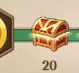
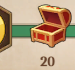
1. Consume more donation rewards 2. Fix do_school

diff --git a/slowlife/bot/game.py b/slowlife/bot/game.py
@@ -48,11 +48,12 @@ from slowlife.resources.constants import (
     KITCHEN_SERVE, KITCHEN_ORDER_JEWELS1, KITCHEN_ORDER_JEWELS2, KITCHEN_USE_INN_PAMPHLET,
 
     SCHOOL_BACK, SCHOOL_EDUCATE, SCHOOL_USE_ITEM, SCHOOL_GRADUATE, GRADUATE_OK, GRADUATE_CONGRATS_OK,
-    NOTICE_OK, SCHOOL_NAME, SCHOOL_GO, SCHOOL_OUT_OF_RESOURCES, SCHOOL_NOTICE,
+    NOTICE_OK, SCHOOL_NAME, SCHOOL_GO, SCHOOL_OUT_OF_RESOURCES, SCHOOL_NOTICE, SCHOOL_OUT_OF_RESOURCES_CLOSE,
 
     BANQUET_ATTEND, BANQUET_ATTEND_PARTY, BANQUET_TAKE_SEAT, BANQUET_BACK,
 
     GUILD_DONATION, DONATION_BASIC_DONATION, DONATION_DONATED, BANQUET_MONEY_FULL, DONATION20, DONATION40,
+    DONATION70, DONATION100,
 
     ROAMING_SKIP, ROAMING_TREAT, VILLAGE_GARDEN2, VILLAGE_GARDEN1, ROAMING_ANNE_SKIP, ROAMING_ANNE,
     ROAMING_BACK, ROAMING_SUSIE, SELECT_SADAKO, ROAMING_REIR, REIR_NO_THANKS, ROAMING_SELECT,
@@ -71,7 +72,7 @@ from slowlife.resources.constants import (
     STORAGE_POTION_OF_INSPIRATION, STORAGE_POTION_OF_DILIGENCE, STORAGE_POTION_OF_BRAVERY, STORAGE_POTION_OF_ERUDITION,
     STORAGE_POTION_OF_FREEDOM, STORAGE_SLIDE, STORAGE_SLIDE_USE, STORAGE, STORAGE_REFINED_EXPERIENCE_STONE,
     STORAGE_EXP_STONE, STORAGE_BASIC_ELIXIR, STORAGE_SELECT_IRA, STORAGE_USE_ITEM, STORAGE_UNPROCESSED_DRUSE,
-    MINE_ATTACK, MINE_POWER_0, MINE_OK, ROAMING_MEADEN
+    MINE_ATTACK, MINE_POWER_0, MINE_OK, ROAMING_MEADEN, SALE, CLOSE_SALE
 )
 
 # Limit donation to 4 times.
@@ -299,9 +300,22 @@ def do_guild() -> None:
                 # dismiss congratulation screen
                 click('MAKE_BASIC_DONATION')
 
-            # Check for rewards
-            if click(DONATION20, _confidence=0.8, match_optional=True) is not None:
-                click(DONATION40, _confidence=0.8)
+            # Open rewards
+            click(DONATION20, _confidence=0.8, match_optional=True)
+            # Dismiss popup
+            click(DONATION_BASIC_DONATION)
+
+            click(DONATION40, _confidence=0.8, match_optional=True)
+            # Dismiss popup
+            click(DONATION_BASIC_DONATION)
+
+            click(DONATION70, _confidence=0.8, match_optional=True)
+            # Dismiss popup
+            click(DONATION_BASIC_DONATION)
+
+            click(DONATION100, _confidence=0.8, match_optional=True)
+            # Dismiss popup
+            click(DONATION_BASIC_DONATION)
 
             # Exit donation screen
             click('BACK')
@@ -341,11 +355,18 @@ def do_roaming():
         # When this is no roaming available, a dialog appears
         # click anywhere (e.g. GO) to dismiss it.
         click(ROAMING_GO)
+
+        if displayed(SALE, _confidence=0.6):
+            click(CLOSE_SALE, _confidence=0.6)
+
         # Click on back to continue
         pag.sleep(1)
         click(ROAMING_BACK, _confidence=0.6)
         pag.sleep(1)
         return
+
+    if displayed(SALE, _confidence=0.6):
+        click(CLOSE_SALE, _confidence=0.6)
 
     # Anne
     if displayed(ROAMING_ANNE, _confidence=0.5):
@@ -441,8 +462,7 @@ def do_school():
         # if out of resources pop up, dismiss it.
         if locate_on_window(SCHOOL_OUT_OF_RESOURCES, APP_TITLE, _grayscale=True, _confidence=0.7):
             # click below
-            click(SCHOOL_OUT_OF_RESOURCES, _confidence=0.7,
-                  _derive={'target_image': 'BELOW_OUT_OF_RESOURCES', 'dy': 3.5})
+            click(SCHOOL_OUT_OF_RESOURCES_CLOSE, _confidence=0.7)
         # Either way go back to village
         click(SCHOOL_BACK, _confidence=0.7, _clicks=1)
     # regardless of path, leave
@@ -608,11 +628,19 @@ def do_fountain():
         # Home screen has sight delay.
         click(HOME_FOUNTAIN, _pause=2)
         click(FOUNTAIN_10)
+
+        if displayed(SALE, _confidence=0.6):
+            click(CLOSE_SALE, _confidence=0.6)
+
         if displayed(FOUNTAIN_OUT_OF_RESOURCE, _confidence=0.6):
             click(FOUNTAIN_OUT_OF_RESOURCE, _confidence=0.6,
                   _derive={'target_image': 'BELOW_FOUNTAIN_OUT_OF_RESOURCES', 'dy': 3})
         # Back is located in same spot on most screens
         click(FOUNTAIN_1)
+
+        if displayed(SALE, _confidence=0.6):
+            click(CLOSE_SALE, _confidence=0.6)
+
         # Back is located in same spot on most screens.
         # Second click to leave fountain
         click(FOUNTAIN_BACK, _confidence=0.6, _clicks=2)
@@ -746,9 +774,6 @@ def item_for_all(matched: bool, dismiss):
 
 
 # ======================================================================================================================
-# while True:
-#     do_fountain()
-#
 if __name__ == '__main__':
     while True:
 

diff --git a/slowlife/resources/constants.py b/slowlife/resources/constants.py
@@ -52,6 +52,9 @@ STORAGE_SELECT_IRA = '../resources/mainmenu/storage/select_ira.png'
 HOME_FOUNTAIN = '../resources/mainmenu/home/fountain_of_wishes.png'
 HOME_FAMILY = '../resources/mainmenu/home/family.png'
 
+SALE = '../resources/mainmenu/sale.png'
+CLOSE_SALE = '../resources/mainmenu/close_sale.png'
+
 FAMILY_AUTO_DATE = '../resources/mainmenu/home/family/auto_date.png'
 FAMILY_GO_EDUCATE = '../resources/mainmenu/home/family/go_educate.png'
 SCHOOL_NAME = '../resources/mainmenu/village/school/name.png'
@@ -147,6 +150,7 @@ OUT_OF_EDUCATION_POINTS = '../resources/mainmenu/village/school/out_of_education
 SCHOOL_USE_ITEM = '../resources/mainmenu/village/school/school_use_item.png'
 SCHOOL_BACK = '../resources/mainmenu/village/school/school_back.png'
 SCHOOL_OUT_OF_RESOURCES = '../resources/mainmenu/village/school/out_of_resources.png'
+SCHOOL_OUT_OF_RESOURCES_CLOSE = '../resources/mainmenu/village/school/close.png'
 
 SCHOOL_GRADUATE = '../resources/mainmenu/village/school/graduate.png'
 GRADUATE_OK = '../resources/mainmenu/village/school/graduate_ok.png'
@@ -176,7 +180,8 @@ DONATION_OPENED = '../resources/mainmenu/drakenberg/guild/donation/opened.png'
 DONATION_CLOSED = '../resources/mainmenu/drakenberg/guild/donation/closed.png'
 DONATION20 = '../resources/mainmenu/drakenberg/guild/donation/donation20.png'
 DONATION40 = '../resources/mainmenu/drakenberg/guild/donation/donation40.png'
-
+DONATION70 = '../resources/mainmenu/drakenberg/guild/donation/donation70.png'
+DONATION100 = '../resources/mainmenu/drakenberg/guild/donation/donation100.png'
 
 STAGE_CHALLENGE = '../resources/mainmenu/drakenberg/stage/challenge.png'
 CHALLENGE_EMPTY = '../resources/mainmenu/drakenberg/stage/challenge/items_empty.png'
